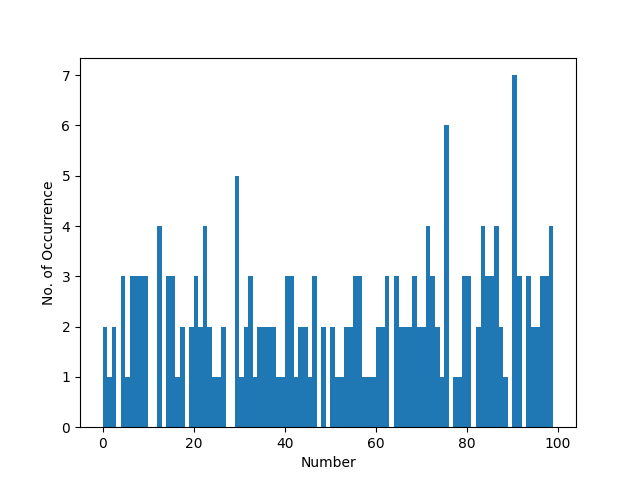
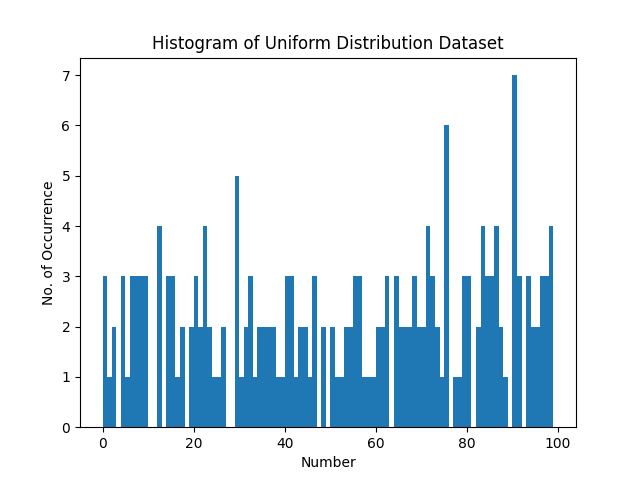
Added Uniform Distribution Dataset Histogrm Plot

Changed region(s): [[0.2188, 0.0625, 0.7812, 0.125], [0.1562, 0.5625, 0.1875, 0.6875]]

diff --git a/Question 1A/plotter.py b/Question 1A/plotter.py
@@ -2,7 +2,7 @@ import numpy as np
 import csv
 import matplotlib.pyplot as plt
 
-random_numbers = np.zeros(200)
+random_numbers = np.zeros(201)
 
 with open('./Question 1A/uniform_distribution.csv') as csv_file:
     csv_reader = csv.reader(csv_file)
@@ -13,6 +13,7 @@ with open('./Question 1A/uniform_distribution.csv') as csv_file:
     print(f"Processed {line_count} lines.")
 
 plt.figure("Histogram of Uniform Distribution Dataset")
+plt.title("Histogram of Uniform Distribution Dataset")
 plt.xlabel("Number")
 plt.ylabel("No. of Occurrence")
 plt.hist(random_numbers, bins=range(100))
